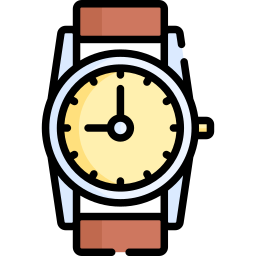
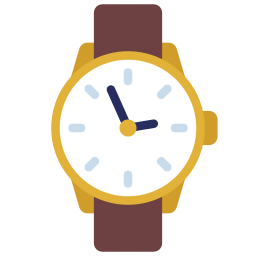
category section design done

diff --git a/src/components/home/Categories.jsx b/src/components/home/Categories.jsx
@@ -1,0 +1,29 @@
+import { TopCategories } from "../../constants/topCategories";
+import CategoryCard from "./CategoryCard";
+
+function Categories() {
+  return (
+    <div className="pt-10 flex flex-row justify-center items-center">
+      <div className="max-w-350 px-20 max-sm:px-10 w-full">
+        <div className="flex flex-row items-center justify-between">
+          <div className="poppins text-xl font-semibold max-sm:text-sm">
+            Top Categories
+          </div>
+          <div className="select-none px-3 py-1 border border-[#32333fb5] rounded-2xl poppins text-md max-sm:text-xs font-medium transition-colors hover:bg-[#1b1d20]">
+            Explore More
+          </div>
+        </div>
+        <div className="mt-10 grid grid-cols-6 max-lg:grid-cols-3 max-sm:grid-cols-2 bg-[#32333fb5] gap-px">
+          {TopCategories.map((categoryObject) => (
+            <CategoryCard
+              categoryImage={categoryObject.img}
+              name={categoryObject.name}
+            />
+          ))}
+        </div>
+      </div>
+    </div>
+  );
+}
+
+export default Categories;

diff --git a/src/constants/topCategories.js b/src/constants/topCategories.js
@@ -1,0 +1,15 @@
+import smartphonesCategoryIcon from "../assets/images/smartphones-category.png"
+import mensWatchesCategoryIcon from "../assets/images/mens-watches-category.png"
+import laptopCategoryIcon from "../assets/images/laptop-category.png"
+import fragnanceCategoryIcon from "../assets/images/fragnance-category.png"
+import womensBagCategoryIcon from "../assets/images/womens-bag-category.png"
+import vehicleCategoryIcon from "../assets/images/vehicle-category.png"
+
+export const TopCategories = [
+  { id: 0, name: "Smartphone", img: smartphonesCategoryIcon, color: "#5ebfe5" },
+  { id: 1, name: "Men's Watch", img: mensWatchesCategoryIcon, color: "#b46715" },
+  { id: 2, name: "Laptop", img: laptopCategoryIcon, color: "#2a3442" },
+  { id: 3, name: "Fragnance", img: fragnanceCategoryIcon },
+  { id: 4, name: "Women's Bag", img: womensBagCategoryIcon },
+  { id: 5, name: "Vehicle", img: vehicleCategoryIcon }
+]

diff --git a/src/components/layout/Header.jsx b/src/components/layout/Header.jsx
@@ -13,7 +13,7 @@ function Header() {
         paddingTop: isPhone ? "1.5rem" : "0",
         gap: isPhone ? "0.375rem" : "0",
       }}
-      className="sticky top-0 left-0 right-0 flex justify-between items-center px-5 bg-[#1b1d20] border-b border-[#32333fb5] drop-shadow-md"
+      className="sticky top-0 left-0 right-0 z-10 flex justify-between items-center px-5 bg-[#1b1d20] border-b border-[#32333fb5] drop-shadow-md"
     >
       <div
         className="flex items-center gap-4"

diff --git a/src/components/home/CategoryCard.jsx b/src/components/home/CategoryCard.jsx
@@ -1,0 +1,12 @@
+function CategoryCard({ categoryImage, name }) {
+  return (
+    <div className="flex flex-col justify-center px-4 py-6 items-center bg-[#101215] transition-all duration-300 hover:bg-[#14161a]">
+      <img src={categoryImage} alt={name} className="w-20 max-sm:w-18" />
+      <div className="mt-6 poppins font-medium text-center max-sm:text-xs">
+        {name}
+      </div>
+    </div>
+  );
+}
+
+export default CategoryCard;

diff --git a/src/pages/Home.jsx b/src/pages/Home.jsx
@@ -1,7 +1,13 @@
+import Categories from "../components/home/Categories";
 import Hero from "../components/home/Hero";
 
 function Home() {
-  return <Hero />;
+  return (
+    <>
+      <Hero />
+      <Categories />
+    </>
+  );
 }
 
 export default Home;
